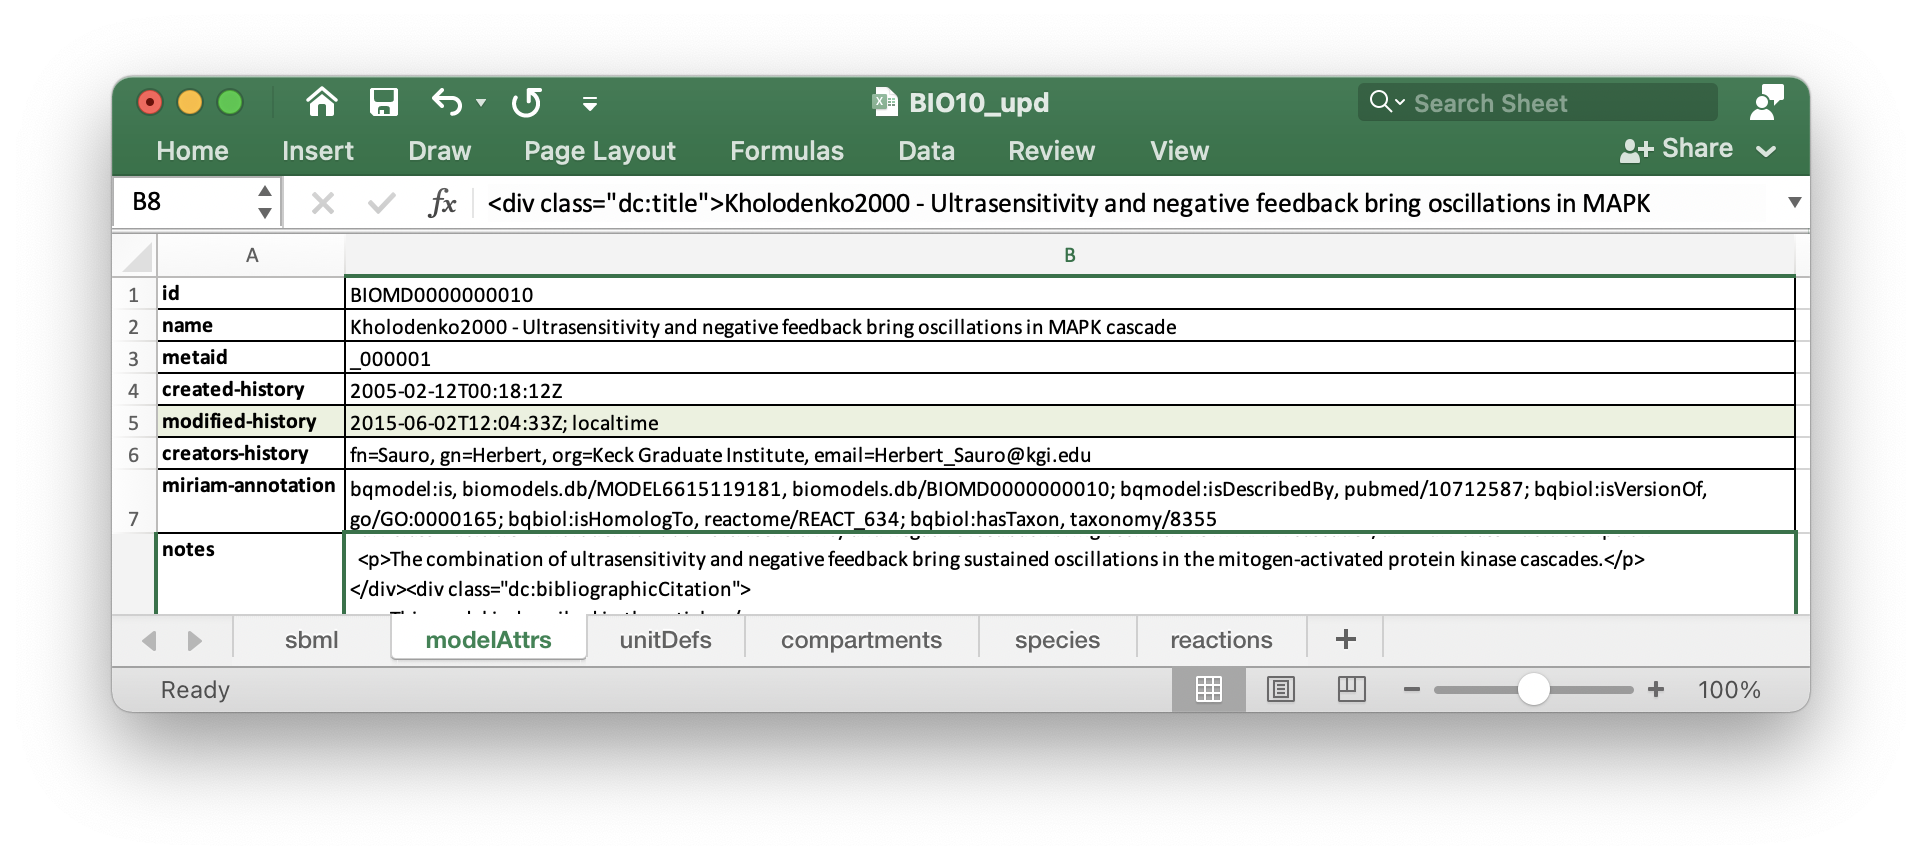
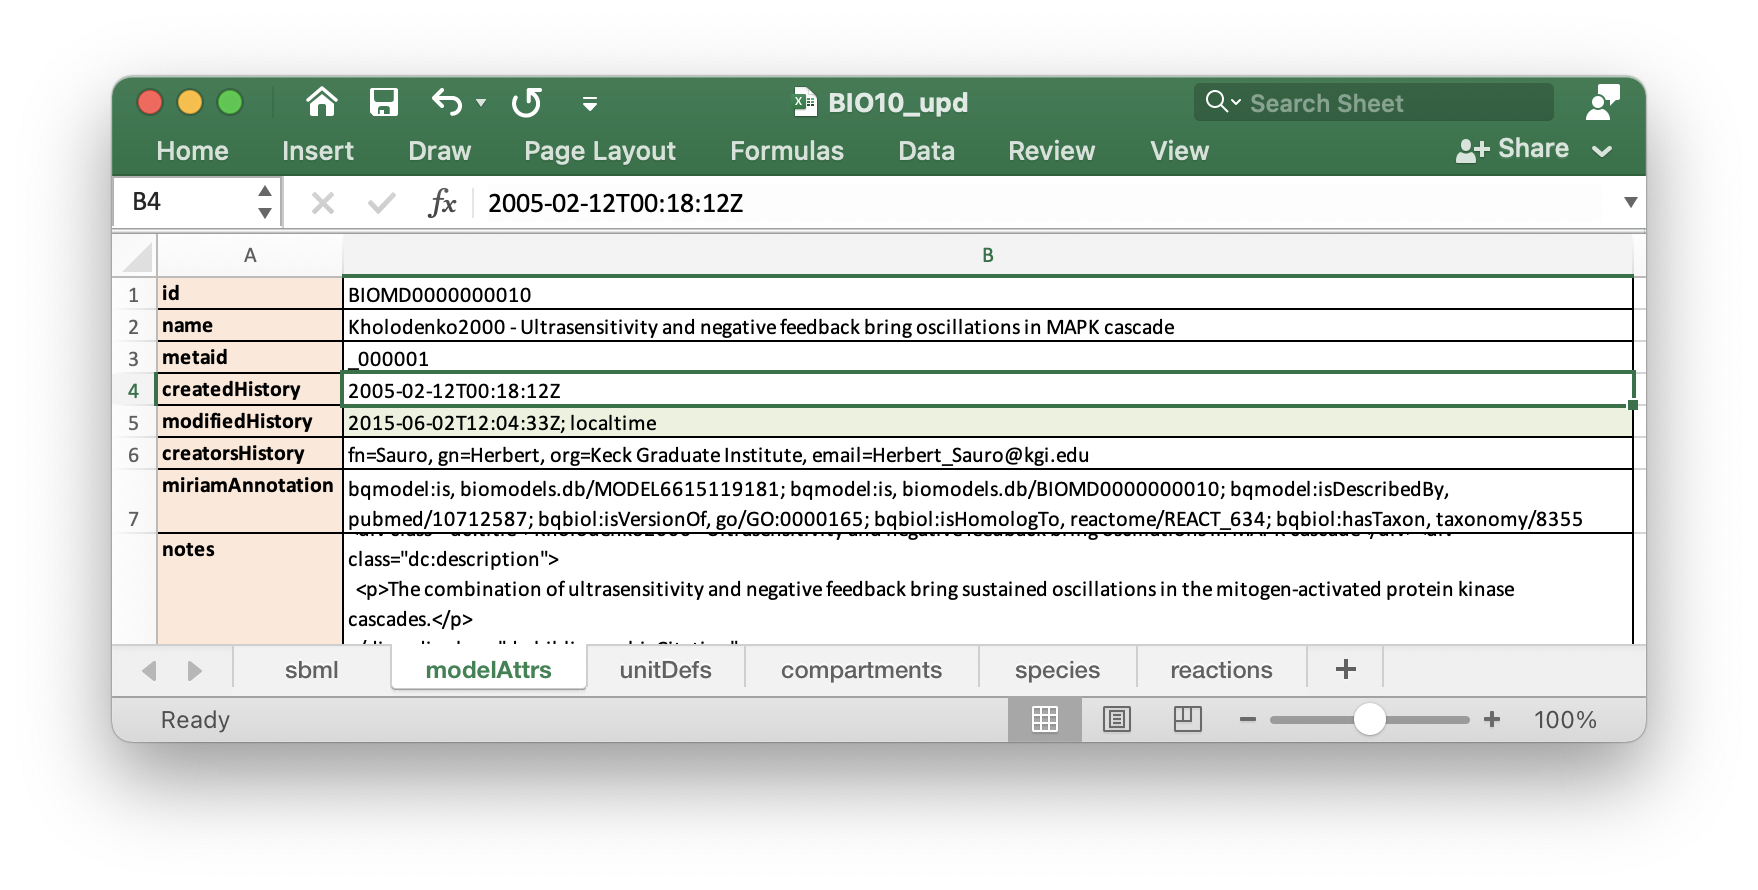
document update

Changed region(s): [[0.0307, 0.0605, 0.9522, 0.8465]]

diff --git a/sbmlxdf/misc.py b/sbmlxdf/misc.py
@@ -290,7 +290,7 @@ def convert_srefs(srefs_str):
     d_srefs = {}
     for sref in record_generator(srefs_str):
         params = extract_params(sref)
-        d_srefs[params['species']] = params['stoic']
+        d_srefs[params['species']] = params.get('stoic', '1.0')
 
     l_srefs = []
     for sid in sorted(d_srefs.keys()):

diff --git a/docs/tutorial.rst b/docs/tutorial.rst
@@ -52,8 +52,8 @@ The **reaction** sheet contains all information related to reactions this model:
 
 - **id**: identifier of the reaction
 - **name**: a more human readable name
-- **metaid**: required for miriam-annotations and model history
-- **miriam-annotation**: records (";" - separated) with qualifier elements and
+- **metaid**: required for miriamAnnotations and model history
+- **miriamAnnotation**: records (";" - separated) with qualifier elements and
   resources ('http://identifiers.org/' removed)
 - **reversible**: boolean value for reaction reversibility
 - **reactants**: reactants of the reaction (";" - separated)
@@ -62,6 +62,8 @@ The **reaction** sheet contains all information related to reactions this model:
 - **kineticLaw**
 - **local parameters**: parameters used in a kinetic law can be either local
   or global
+- **reactionString**: reaction converted into a tellurium compatible
+  string representation
 
 .. note::
 
@@ -212,7 +214,7 @@ Updates to model reactions. We had to implement several configurations
 
 In the sheet ``modelAttrs`` we could add the **current time** to the
 modification history. We do this by adding ``; localtime`` to the end of the
-``modified-history`` value.
+``modifiedHistory`` value.
 
 .. image:: ./images/upd_modelAttrs_L2V4.png
 
@@ -317,7 +319,7 @@ key-value pairs from a record, e.g. to get all attributes of a reactant.
     10 reactions found, first reaction:
     name                                                 MAPKKK activation
     metaid                                                              J0
-    miriam-annotation    bqbiol:isHomologTo, reactome/REACT_525; bqbiol...
+    miriamAnnotation    bqbiol:isHomologTo, reactome/REACT_525; bqbiol...
     reversible                                                       False
     reactants                          species=MKKK, stoic=1.0, const=True
     products                         species=MKKK_P, stoic=1.0, const=True
@@ -444,19 +446,19 @@ on the level of ``species``. Let us extend our spreadsheet ``BIO10_upd.xlsx``.
 
 To benefit from spreadsheet features, we
 add a sheet ``helpers`` and copy relevant information from the
-``species`` sheet. The ``miriam-annotation`` values provide references
+``species`` sheet. The ``miriamAnnotation`` values provide references
 to ``UniProt`` database. We manually lookup
 `UniProt <https://www.uniprot.org>`_ and search for the **unitprot ids** used
 in our model. In the **Sequence** section we find protein length and
 molecular weight, which we add to our table.
 Just as an example, we also add weights of inorganic phosphates.
-Using Excel ``concat()`` function we create ``xml-annotations``
+Using Excel ``concat()`` function we create ``xmlAnnotations``
 using fixed namespace, token and prefix and
 variable values from our table. Note: Here I define an arbitrary namespace.
 
 .. image:: ./images/upd_helper_xml.png
 
-Subsequently we **copy** the ``xml-annotation`` column and
+Subsequently we **copy** the ``xmlAnnotation`` column and
 **Paste Special - Values** it into our ``species`` sheet.
 I also updated the ``metaid`` values.
 
@@ -481,7 +483,7 @@ which is demonstrated in below code block:
   model_df = model.to_df()
   df_s = model_df['species']
   for species, row in df_s.iterrows():
-      attrs = sbmlxdf.misc.extract_xml_attrs(row['xml-annotation'], token='molecule')
+      attrs = sbmlxdf.misc.extract_xml_attrs(row['xmlAnnotation'], token='molecule')
       print(species, attrs)
 
   MKKK {'weight_Da': '71960', 'prot_len': '638'}

diff --git a/docs/spreadsheet.rst b/docs/spreadsheet.rst
@@ -85,7 +85,7 @@ metaid
 
 Type: **string**
 
-Identifier to link ``xxx-history`` and ``miriam-annotation`` to a component.
+Identifier to link ``xxxHistory`` and ``miriamAnnotation`` to a component.
 Values are in a separate namespace. I.e. they can overlap with ``id`` values.
 
 Example::
@@ -108,8 +108,8 @@ Example::
 
   SBO:0000290
 
-created-history
-~~~~~~~~~~~~~~~
+createdHistory
+~~~~~~~~~~~~~~
 
 Type: **string**
 
@@ -122,8 +122,8 @@ Example::
   2005-02-06T23:39:40Z
 
 
-modified-history
-~~~~~~~~~~~~~~~~
+modifiedHistory
+~~~~~~~~~~~~~~~
 
 Type: **special_records**
 
@@ -136,8 +136,8 @@ Example::
   2020-09-25T10:00:00+01:00; localtime
 
 
-creators-history
-~~~~~~~~~~~~~~~~
+creatorsHistory
+~~~~~~~~~~~~~~~
 
 Type: **records**
 
@@ -154,8 +154,8 @@ Example::
 
   fn=Schubert, gn=Peter, org=Heinrich-Heine-University Duesseldorf, email=Peter.Schubert@hhu.de
 
-miriam-annotation
-~~~~~~~~~~~~~~~~~
+miriamAnnotation
+~~~~~~~~~~~~~~~~
 
 Type: **special_records**
 
@@ -170,7 +170,7 @@ Example::
 
   bqbiol:is, bigg.metabolite/14glucan, biocyc/META:1-4-alpha-D-Glucan, metanetx.chemical/MNXM2905, seed.compound/cpd21754
 
-xml-annotation
+xmlAnnotation
 ~~~~~~~~~~~~~~
 
 Type: **records**

diff --git a/docs/index.rst b/docs/index.rst
@@ -60,7 +60,7 @@ Features
 --------
 - support of SBML L3V2 core [SBML_L3V2]_, including:
 
-  - model history, miriam-annotations, xml-annotations
+  - model history, miriamAnnotations, xmlAnnotations
   - units of measurement
   - local/global parameters
   - function definitions
